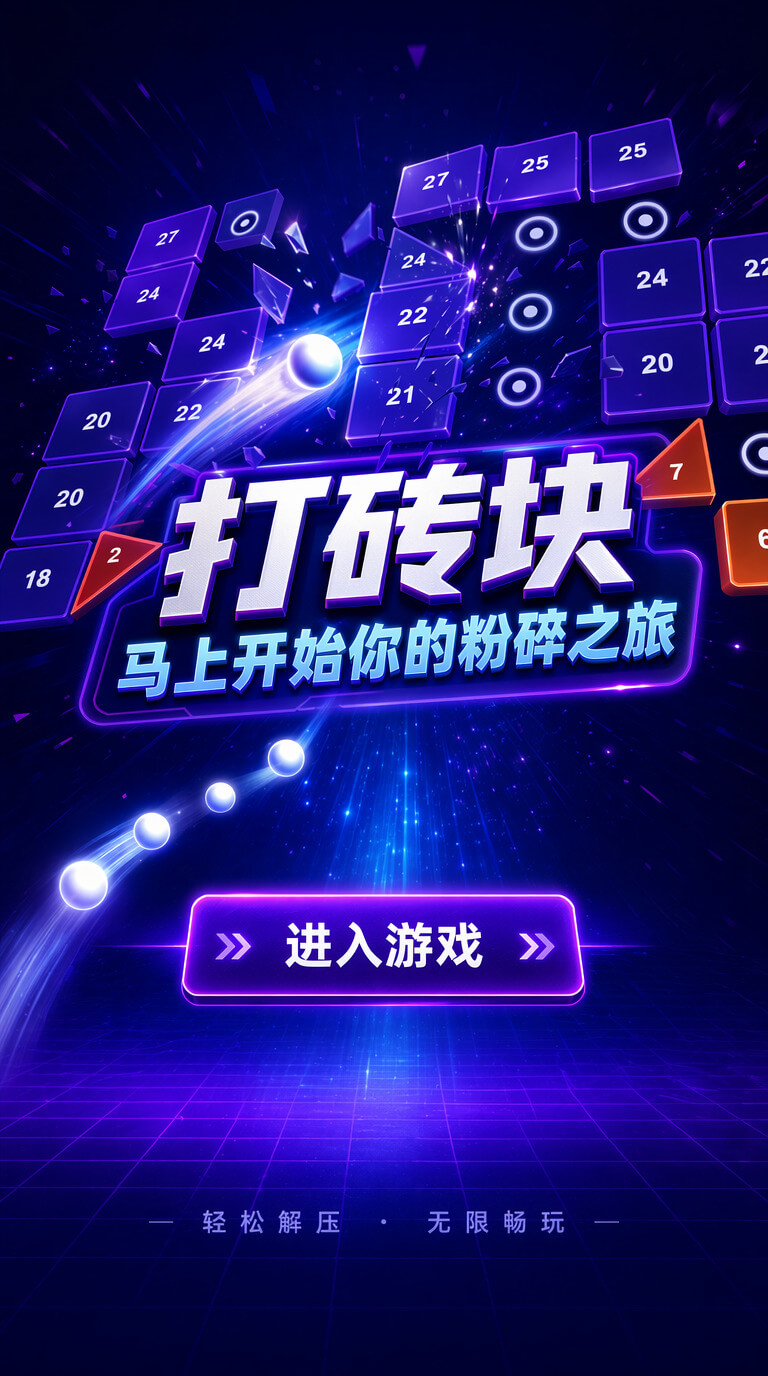
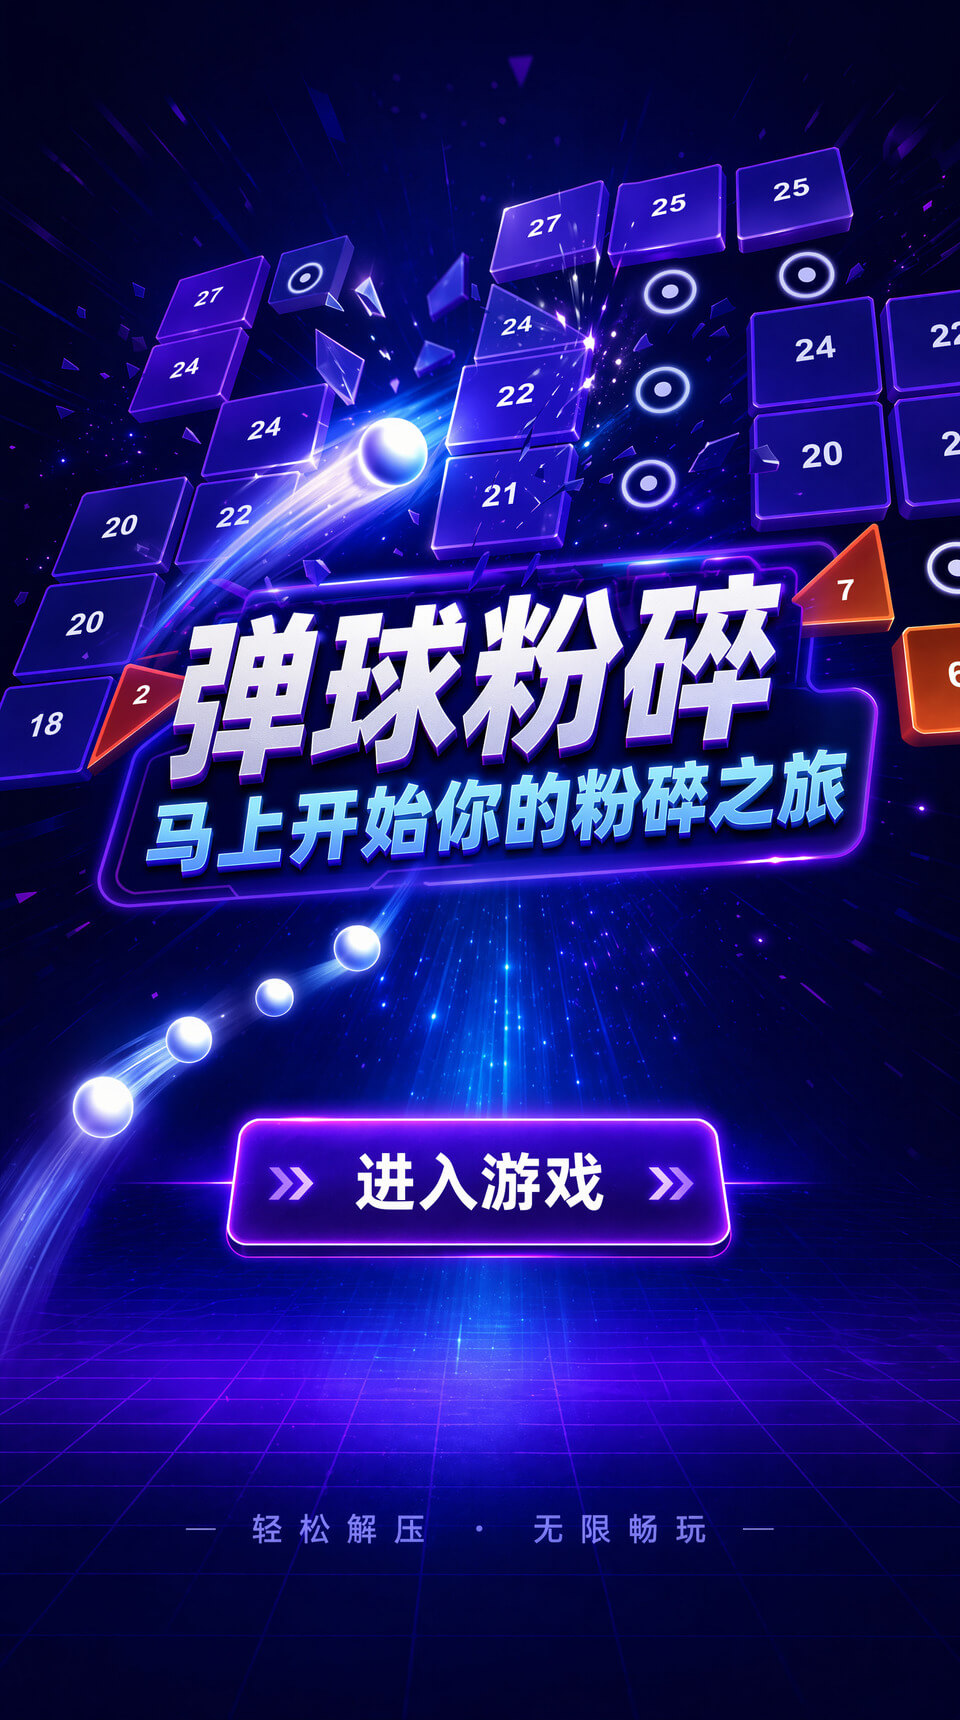
up

diff --git a/js/core/launcher.js b/js/core/launcher.js
@@ -186,28 +186,31 @@ export default class Launcher {
       // 沿射线画虚线点
       const segDx = hit.x - ox;
       const segDy = hit.y - oy;
-      let segLen = Math.sqrt(segDx * segDx + segDy * segDy);
-      if (segLen < 1) break;
+      const fullLen = Math.sqrt(segDx * segDx + segDy * segDy);
+      if (fullLen < 1) break;
 
-      // 反弹后的线段最长90px
-      if (bounce > 0) segLen = Math.min(segLen, 90 * s);
+      // 反弹后的线段最长限制（只限最后一段）
+      const maxLen = (bounce === MAX_BOUNCES) ? 80 * s : 9999;
+      const segLen = Math.min(fullLen, maxLen);
+
+      const ndx = segDx / fullLen;
+      const ndy = segDy / fullLen;
 
       const steps = Math.floor(segLen / DOT_GAP);
-      const ndx = segDx / Math.sqrt(segDx * segDx + segDy * segDy);
-      const ndy = segDy / Math.sqrt(segDx * segDx + segDy * segDy);
-
-      for (let i = 1; i <= steps; i++) {
-        const alpha = 0.5 - bounce * 0.12 - (i / steps) * 0.15;
-        if (alpha <= 0.05) break;
+      for (let i = 0; i <= steps; i++) {
+        const dist = i * DOT_GAP;
+        if (dist > segLen) break;
+        const alpha = (0.5 - bounce * 0.1) * (1 - dist / segLen * 0.3);
+        if (alpha <= 0.03) break;
         ctx.globalAlpha = alpha;
         ctx.beginPath();
-        ctx.arc(ox + ndx * DOT_GAP * i, oy + ndy * DOT_GAP * i, DOT_R, 0, Math.PI * 2);
+        ctx.arc(ox + ndx * dist, oy + ndy * dist, DOT_R, 0, Math.PI * 2);
         ctx.fill();
       }
 
       // 碰撞点亮点标记
       if (bounce < MAX_BOUNCES && hit.nx !== undefined) {
-        ctx.globalAlpha = 0.6 - bounce * 0.15;
+        ctx.globalAlpha = 0.5 - bounce * 0.12;
         ctx.beginPath();
         ctx.arc(hit.x, hit.y, DOT_R * 1.8, 0, Math.PI * 2);
         ctx.fill();

diff --git a/js/scene/gameScene.js b/js/scene/gameScene.js
@@ -547,6 +547,14 @@ export default class GameScene {
       if (ball.x + r >= right) { ball.x = right - r; ball.vx = -Math.abs(ball.vx); ball.recordBounce(this._wallRight); }
       if (ball.y - r <= top) { ball.y = top + r; ball.vy = Math.abs(ball.vy); ball.recordBounce(this._wallTop); }
 
+      // 将墙壁修正后的最终位置追加到路径（确保道具碰撞检测覆盖完整路径）
+      if (ball._pathPoints) {
+        const lastPt = ball._pathPoints[ball._pathPoints.length - 1];
+        if (lastPt.x !== ball.x || lastPt.y !== ball.y) {
+          ball._pathPoints.push({ x: ball.x, y: ball.y });
+        }
+      }
+
       // 4. 底部落地
       if (ball.vy > 0 && ball.y + r >= bottom) {
         ball.y = bottom - r;
@@ -577,7 +585,7 @@ export default class GameScene {
         for (const rc of this.grid.rowClears) {
           if (rc.collected) continue;
           if (ball.usedWarps.has(rc)) continue;
-          const hitR = ball.radius + rc.radius + 4 * SCALE;
+          const hitR = ball.radius + rc.radius + 8 * SCALE;
           if (this._pathCircleHit(path, rc.x, rc.y, hitR)) {
             ball.usedWarps.add(rc);
             this._executeRowClear(rc);
@@ -592,7 +600,7 @@ export default class GameScene {
         for (const cc of this.grid.colClears) {
           if (cc.collected) continue;
           if (ball.usedWarps.has(cc)) continue;
-          const hitR = ball.radius + cc.radius + 4 * SCALE;
+          const hitR = ball.radius + cc.radius + 8 * SCALE;
           if (this._pathCircleHit(path, cc.x, cc.y, hitR)) {
             ball.usedWarps.add(cc);
             this._executeColClear(cc);